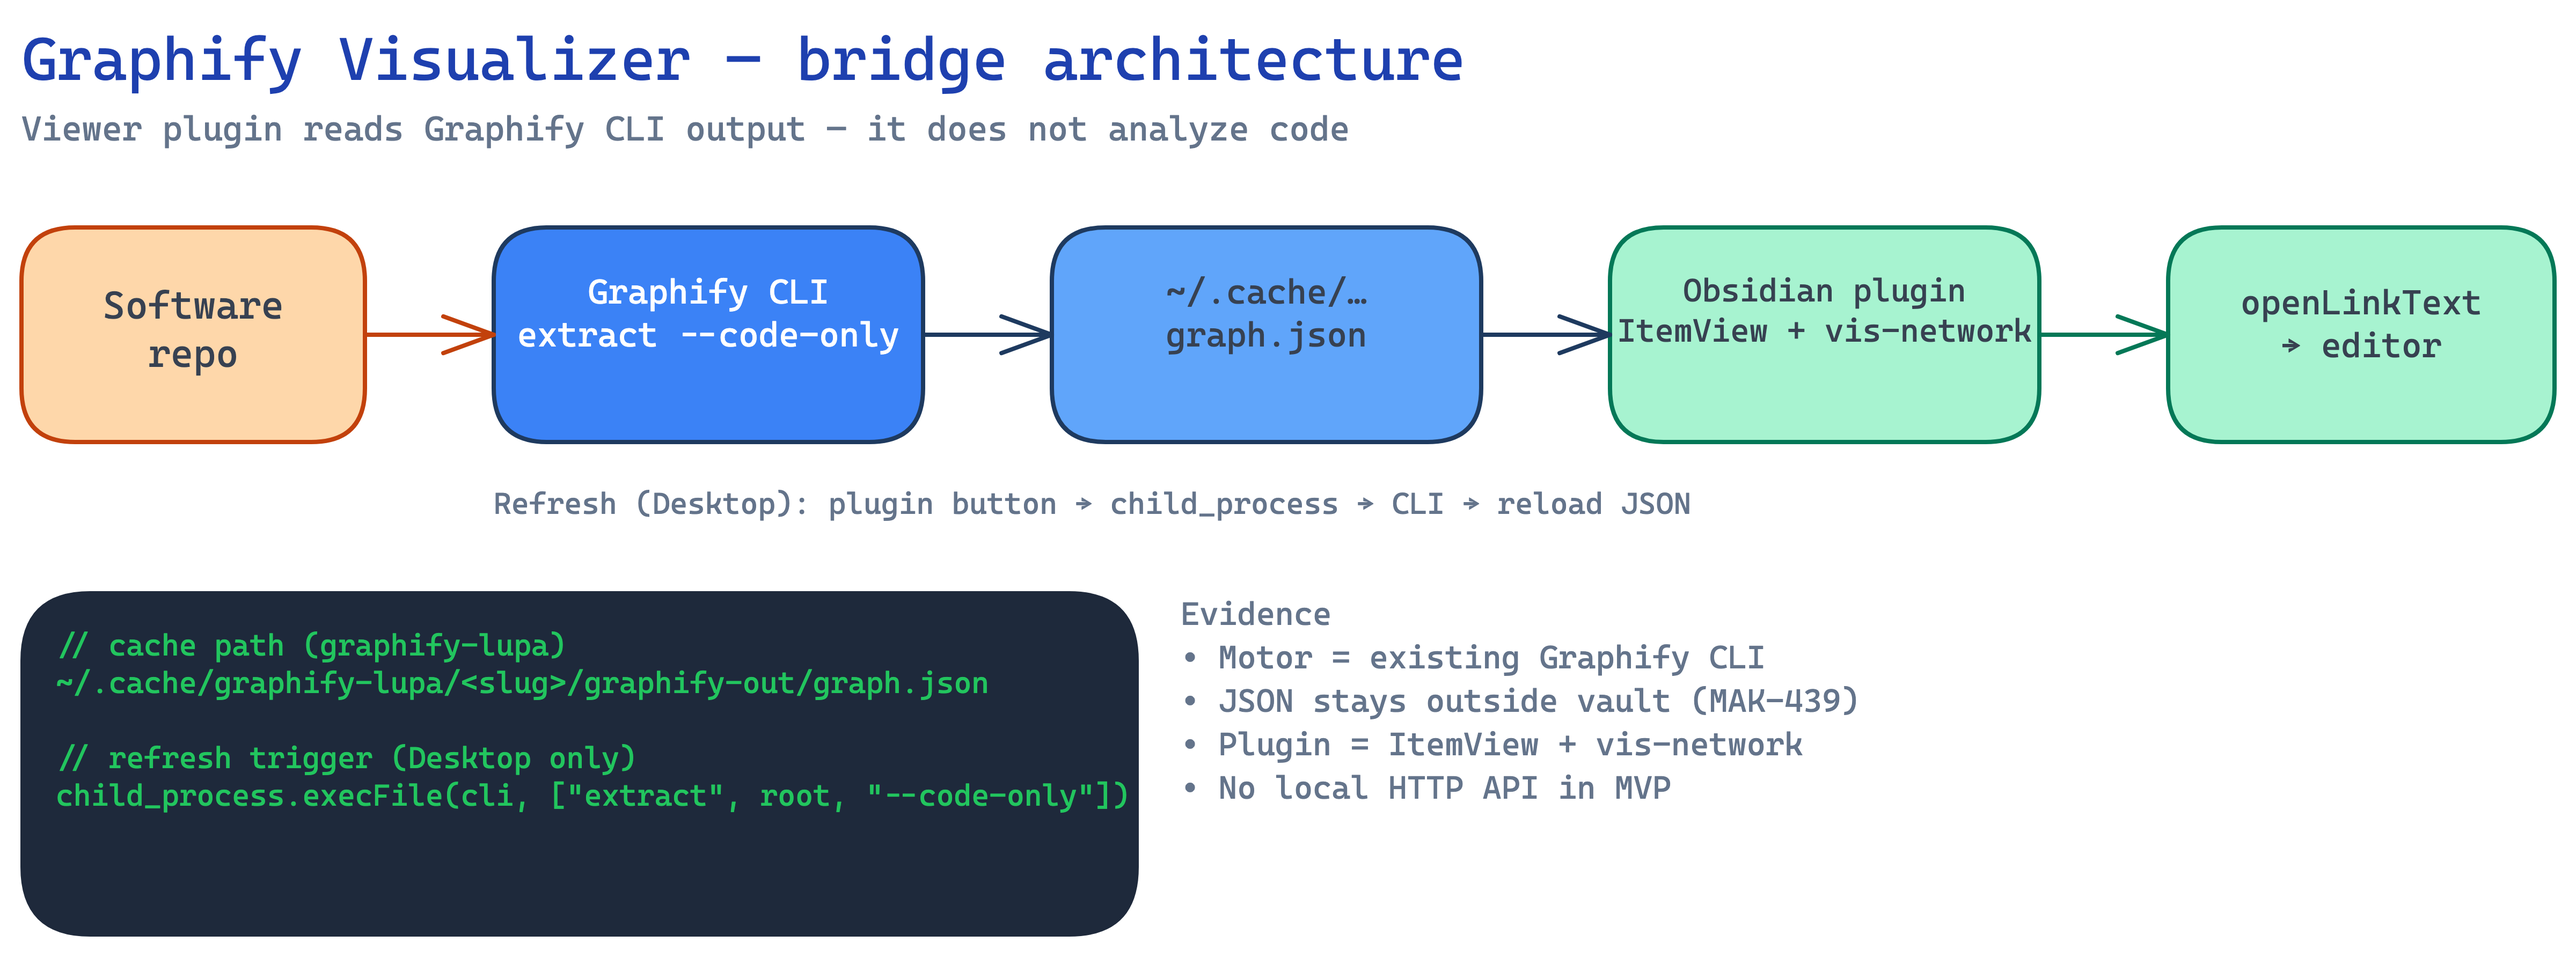
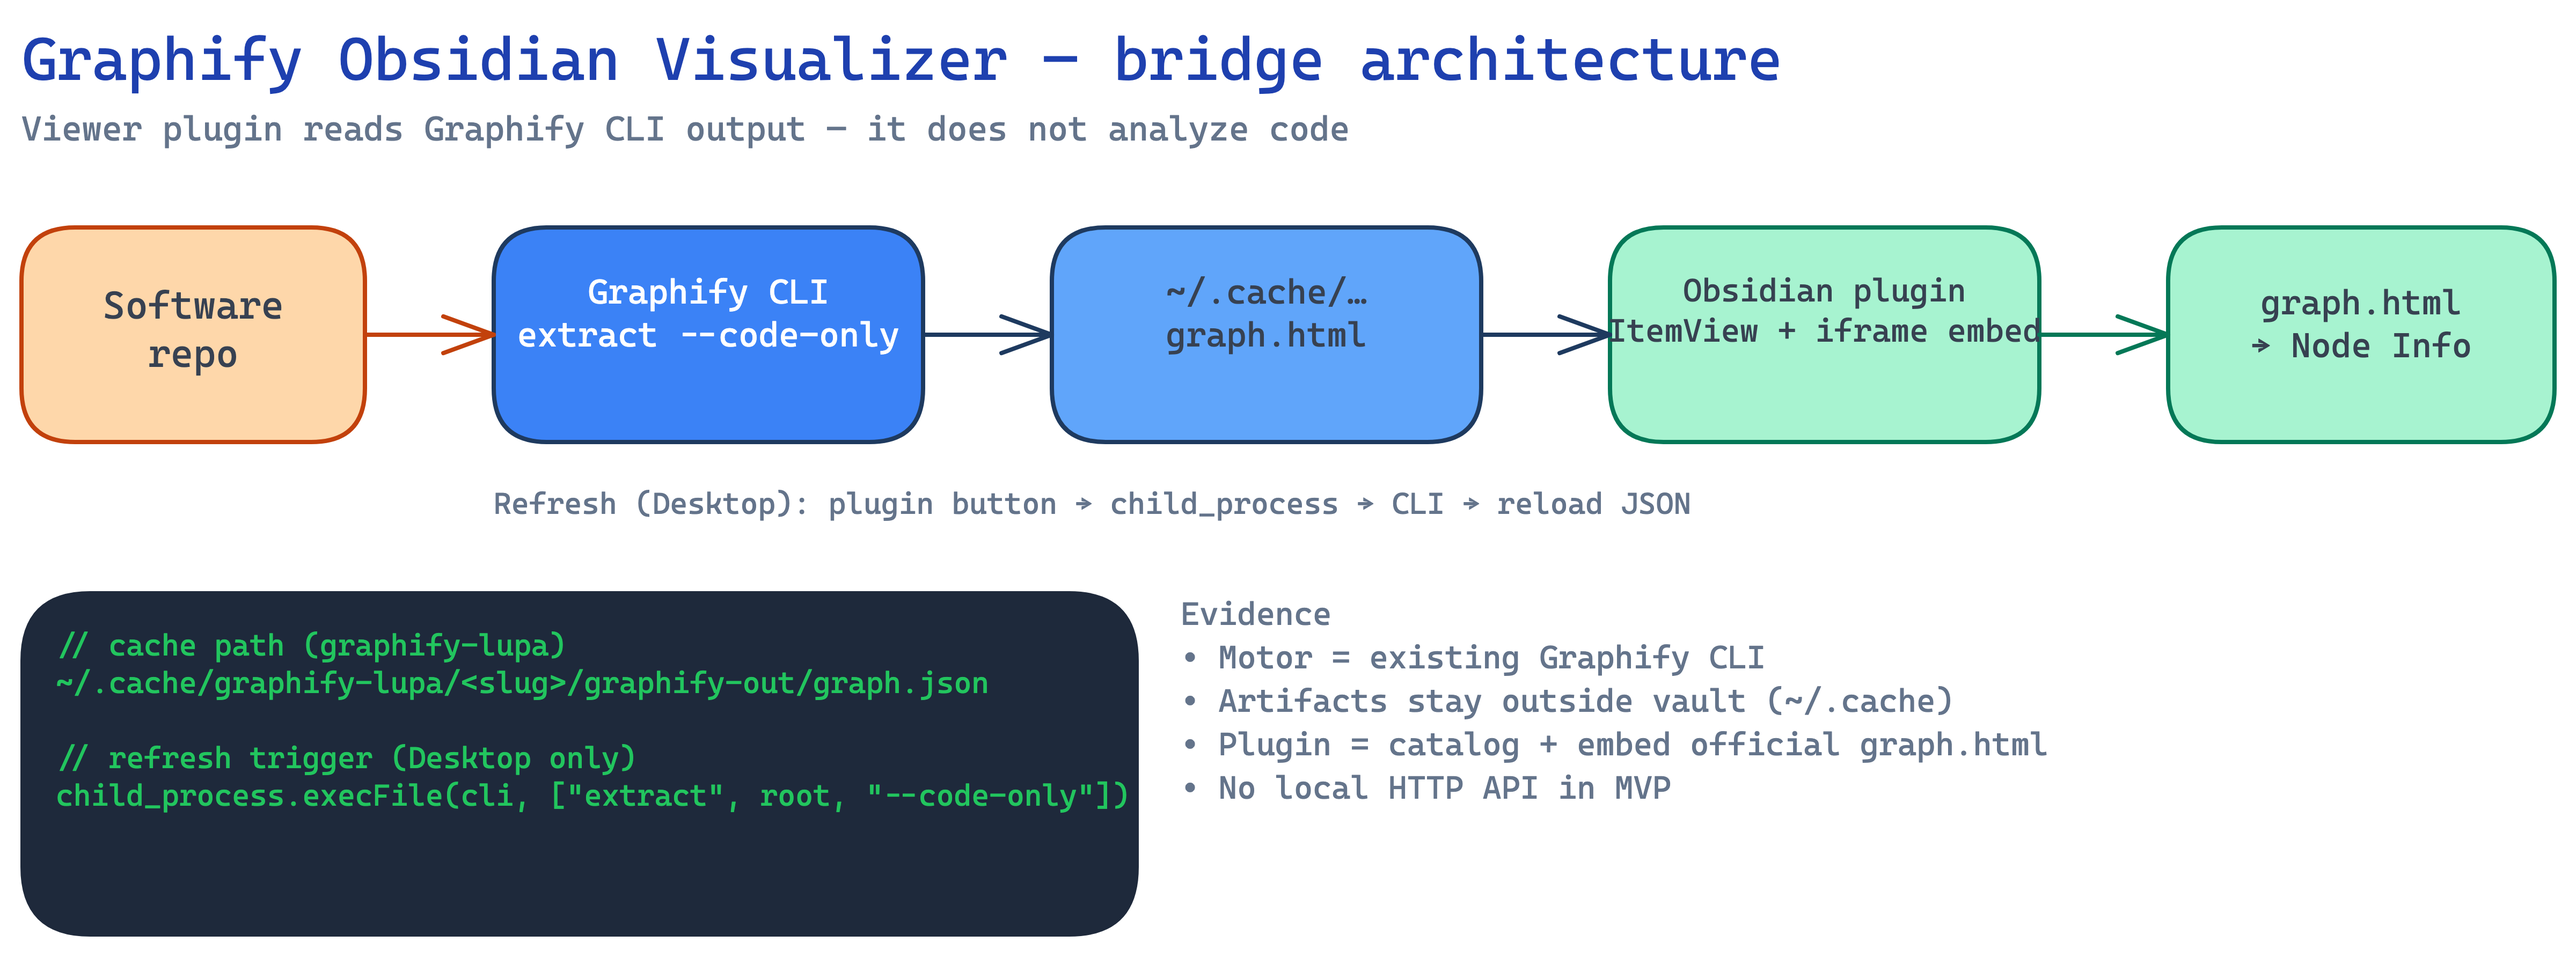
docs(readme): restore ASCII hero, add product cover, Crafter footer
Ship user screenshot as cover; refresh bridge diagram labels for embed; point clone URLs at crafter-station.

diff --git a/README.md b/README.md
@@ -1,30 +1,42 @@
 <div align="center">
 
-<a href="https://www.graphify.com">
-  <img src="docs/assets/graphify-logo.png" alt="Graphify" width="280"/>
-</a>
+<pre>
+╔══════════════════════════════════════════════════╗
+
+   ██████╗ ██╗   ██╗
+  ██╔════╝ ██║   ██║
+  ██║  ███╗██║   ██║
+  ██║   ██║╚██╗ ██╔╝
+  ╚██████╔╝ ╚████╔╝
+   ╚═════╝   ╚═══╝
+
+  GRAPHIFY OBSIDIAN VISUALIZER
+  Obsidian plugin  ·  Graphify bridge  ·  embed graph.html
+
+╚══════════════════════════════════════════════════╝
+</pre>
 
 # Graphify Obsidian Visualizer
 
 **Browse Graphify knowledge graphs inside Obsidian** — catalog cache maps, embed official `graph.html`, keep Node Info 1:1 with the web viewer.
 
-Built on top of [Graphify](https://github.com/Graphify-Labs/graphify) by [Graphify Labs](https://www.graphify.com). This plugin is a **viewer bridge**, not an analyzer.
+Companion to [Graphify](https://github.com/Graphify-Labs/graphify) by [Graphify Labs](https://www.graphify.com). This plugin is a **viewer bridge** 🗂 — it does not analyze code.
 
 [![Obsidian](https://img.shields.io/badge/Obsidian-plugin-7C3AED?logo=obsidian&logoColor=white)](https://obsidian.md)
 [![Graphify](https://img.shields.io/badge/upstream-Graphify%20Labs-111827)](https://github.com/Graphify-Labs/graphify)
+[![Org](https://img.shields.io/badge/org-Crafter%20Station-0EA5E9)](https://github.com/crafter-station)
 [![Status](https://img.shields.io/badge/status-v0.5%20embed-16A34A)](docs/ROADMAP.md)
-[![Stack](https://img.shields.io/badge/stack-TypeScript%20%2B%20Obsidian%20API-3b82f6)](docs/DECISIONS.md)
 [![License](https://img.shields.io/badge/license-MIT-047857)](LICENSE)
 
 [Website](https://www.graphify.com) · [Upstream CLI / skill](https://github.com/Graphify-Labs/graphify) · [App early access](https://app.graphify.com/login)
 
+<br/>
+
+<img src="docs/assets/cover-paqa.png" alt="Graphify Obsidian Visualizer — paqa map embedded with Node Info panel" width="900"/>
+
 </div>
 
-![Bridge architecture](docs/assets/bridge-architecture.png)
-
-<p align="center"><em>Software repo → Graphify CLI → <code>~/.cache/graphify-lupa</code> → this plugin embeds <code>graph.html</code> in Obsidian.</em></p>
-
-## Why this exists
+## ✨ Why this exists
 
 [Graphify](https://github.com/Graphify-Labs/graphify) turns a codebase into a queryable knowledge graph (`graph.html` + `graph.json`). You already open that HTML in a browser.
 
@@ -32,27 +44,23 @@ Built on top of [Graphify](https://github.com/Graphify-Labs/graphify) by [Graphi
 
 | Feature | What you get |
 |---|---|
-| **Catalog** | Lists every slug under `~/.cache/graphify-lupa` with json/html flags, node counts, code root |
-| **Embed** | Official Graphify `graph.html` inside an Obsidian leaf (communities legend + Node Info) |
-| **Browser escape hatch** | One click opens the same HTML in the system browser |
-| **Filing cabinet** | Obsidian indexes and opens maps — Graphify CLI still cooks them |
+| 📚 **Catalog** | Lists every slug under `~/.cache/graphify-lupa` with json/html flags, node counts, code root |
+| 🖼 **Embed** | Official Graphify `graph.html` inside an Obsidian leaf (communities legend + Node Info) |
+| 🌐 **Browser escape hatch** | One click opens the same HTML in the system browser |
+| 🗂 **Filing cabinet** | Obsidian indexes and opens maps — Graphify CLI still cooks them |
 
-## What it is not
+## 🚫 What it is not
 
 - Not Obsidian’s built-in note graph
 - Not a vault-wide indexer or second Graphify engine
 - Not tree-sitter / Python analysis (that stays in [upstream Graphify](https://github.com/Graphify-Labs/graphify))
 - Not mobile Refresh (desktop / Electron only)
 
-## How the bridge works
+## 🔗 How the bridge works
 
-```text
-Software repo
-  → Graphify CLI (/graphify or graphifyy)
-  → ~/.cache/graphify-lupa/<slug>/graphify-out/{graph.html,graph.json}
-  → This plugin: catalog → embed graph.html (blob iframe)
-  → Node click → Graphify Node Info (same UX as web)
-```
+![Bridge architecture](docs/assets/bridge-architecture.png)
+
+<p align="center"><em>Software repo → Graphify CLI → <code>~/.cache/graphify-lupa</code> → this plugin embeds <code>graph.html</code> in Obsidian.</em></p>
 
 Architecture: [`docs/ARCHITECTURE.md`](docs/ARCHITECTURE.md) · decisions: [`docs/DECISIONS.md`](docs/DECISIONS.md) · diagram source: [`docs/assets/bridge-architecture.excalidraw`](docs/assets/bridge-architecture.excalidraw)
 
@@ -66,28 +74,28 @@ Architecture: [`docs/ARCHITECTURE.md`](docs/ARCHITECTURE.md) · decisions: [`doc
 
 Install Graphify first (`uv tool install graphifyy` → `graphify install` → `/graphify .` in your assistant). Then use this plugin to browse the resulting maps in Obsidian.
 
-## Status
+## 📍 Status
 
 | Phase | State |
 |---|---|
-| Fase 0 — ItemView scaffold | Done |
-| Fase 1 — catalog of cache graphs | Done |
-| Fase 2 — open `graph.html` in browser | Done |
-| Fase 3 — embed official `graph.html` in Obsidian | Done |
-| Fase 4 — Refresh via CLI subprocess | Next |
+| Fase 0 — ItemView scaffold | ✅ Done |
+| Fase 1 — catalog of cache graphs | ✅ Done |
+| Fase 2 — open `graph.html` in browser | ✅ Done |
+| Fase 3 — embed official `graph.html` in Obsidian | ✅ Done |
+| Fase 4 — Refresh via CLI subprocess | 🔜 Next |
 
 Track: [`docs/ROADMAP.md`](docs/ROADMAP.md)
 
-## Quick start
+## 🚀 Quick start
 
 ```bash
-git clone git@github.com:TheVeller/graphify-visualizer.git
+git clone git@github.com:crafter-station/graphify-visualizer.git
 cd graphify-visualizer/plugin
 bun install && bun run build
 # symlink plugin/ → <vault>/.obsidian/plugins/graphify-visualizer
 ```
 
-Enable **Graphify Obsidian Visualizer** in Obsidian → command **Open Graphify Visualizer**.
+Enable **Graphify Obsidian Visualizer** in Obsidian → command **Open Graphify Obsidian Visualizer**.
 
 Expect maps at:
 
@@ -95,7 +103,7 @@ Expect maps at:
 
 Details: [`plugin/README.md`](plugin/README.md)
 
-## Repo map
+## 🗂 Repo map
 
 ```text
 graphify-visualizer/
@@ -107,16 +115,24 @@ graphify-visualizer/
 └── plugin/               # Obsidian plugin (esbuild → main.js)
 ```
 
-## Topics / search keywords
+## 🏷 Topics / search keywords
 
 `obsidian` · `obsidian-plugin` · `graphify` · `knowledge-graph` · `code-map` · `graph-visualization` · `pkm` · `typescript` · `desktop`
 
-## Contributing
+## 🤝 Contributing
 
 Issues and PRs welcome on docs, bridge UX, and schema mismatches against real `graph.json` / `graph.html`.
 
 Agent rules: [`AGENTS.md`](AGENTS.md)
 
-## License
+## 📄 License
 
 [MIT](LICENSE) — plugin code. Graphify itself is owned by [Graphify Labs](https://github.com/Graphify-Labs/graphify); this repo only embeds their generated `graph.html`.
+
+---
+
+<div align="center">
+
+**with 🖤 by [TheVeller](https://github.com/TheVeller) & [Crafter Station](https://github.com/crafter-station)**
+
+</div>
